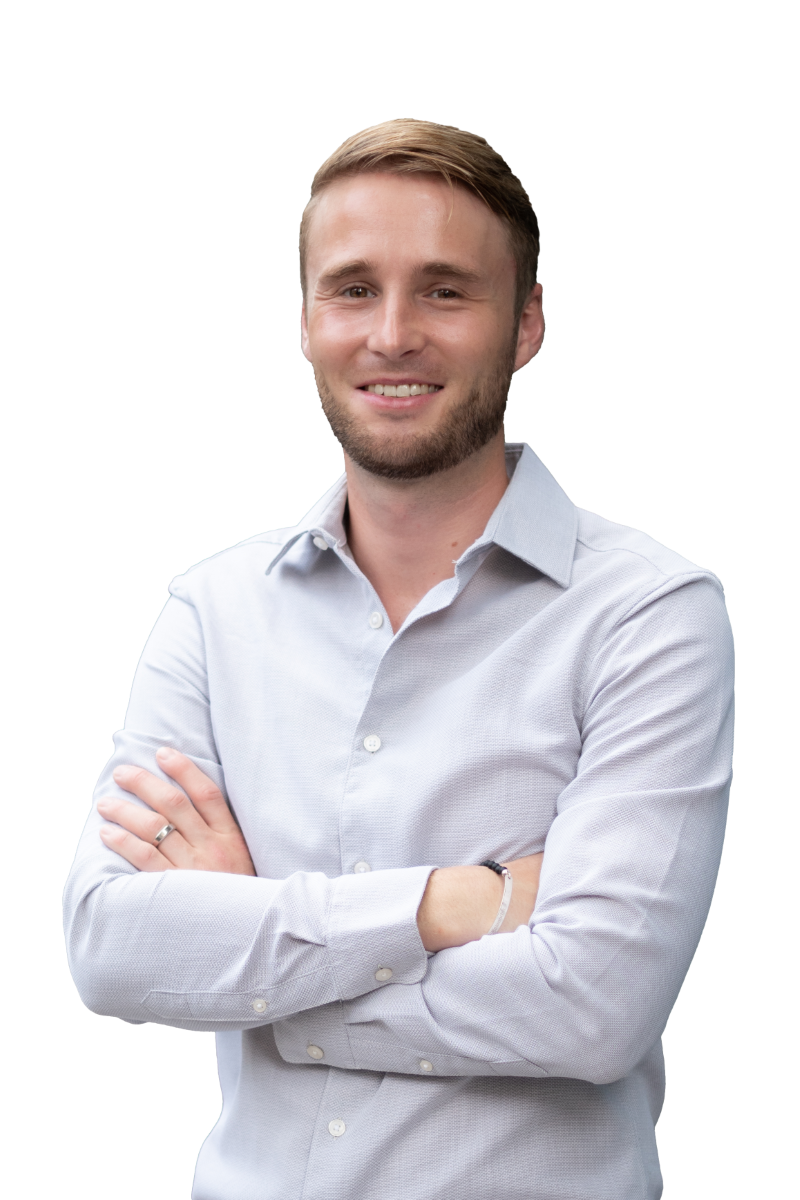
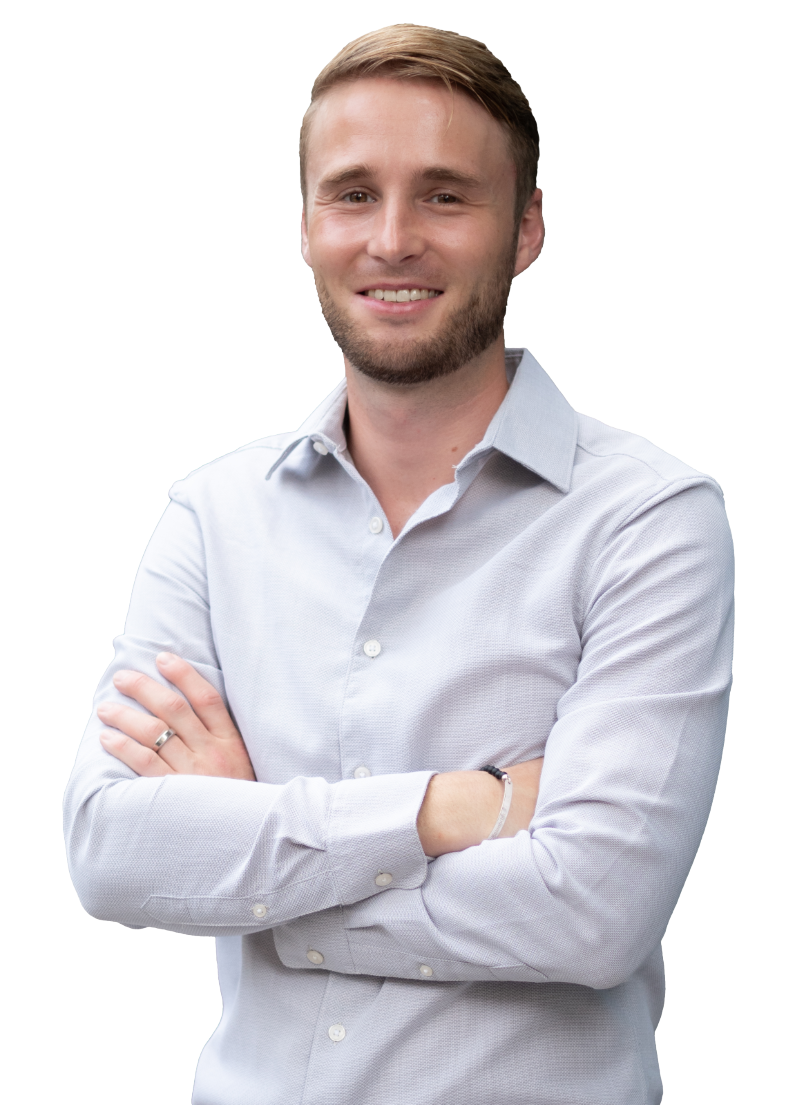
commit

Changed region(s): [[0.0625, 0.0, 0.9375, 0.9538], [0.8125, 0.8308, 0.8438, 0.8615]]

diff --git a/src/app/header/header.component.scss b/src/app/header/header.component.scss
@@ -5,7 +5,6 @@
 }
 
 .headerContainer {
-    height: calc(100vh - 80px);
     width: 100%;
     display: flex;
     justify-self: center;
@@ -29,7 +28,8 @@
 .profilePicture {
     width: auto;
     max-width: 100%;
-    height: calc(100vh - 80px);
+    max-height: calc(100vh - 80px);
+    height: auto;
 }
 
 .headerSubContainer {

diff --git a/src/styles.scss b/src/styles.scss
@@ -23,8 +23,8 @@ body {
 }
 
 .background{
-  margin-left: auto;
-  margin-right: auto;
+  display: flex;
+  justify-content: center;
 }
 
 .siteLayout {

diff --git a/src/app/menu/menu.component.scss b/src/app/menu/menu.component.scss
@@ -6,6 +6,7 @@ background-color: white;
 
 header {
     height: 80px;
+    width: 100%;
     z-index: 1;
 
     .desktopMenu {

diff --git a/src/app/footer/footer.component.scss b/src/app/footer/footer.component.scss
@@ -5,6 +5,7 @@
 }
 
 footer {
+    width: 100%;
     height: 200px;
     display: flex;
     flex-direction: column;
